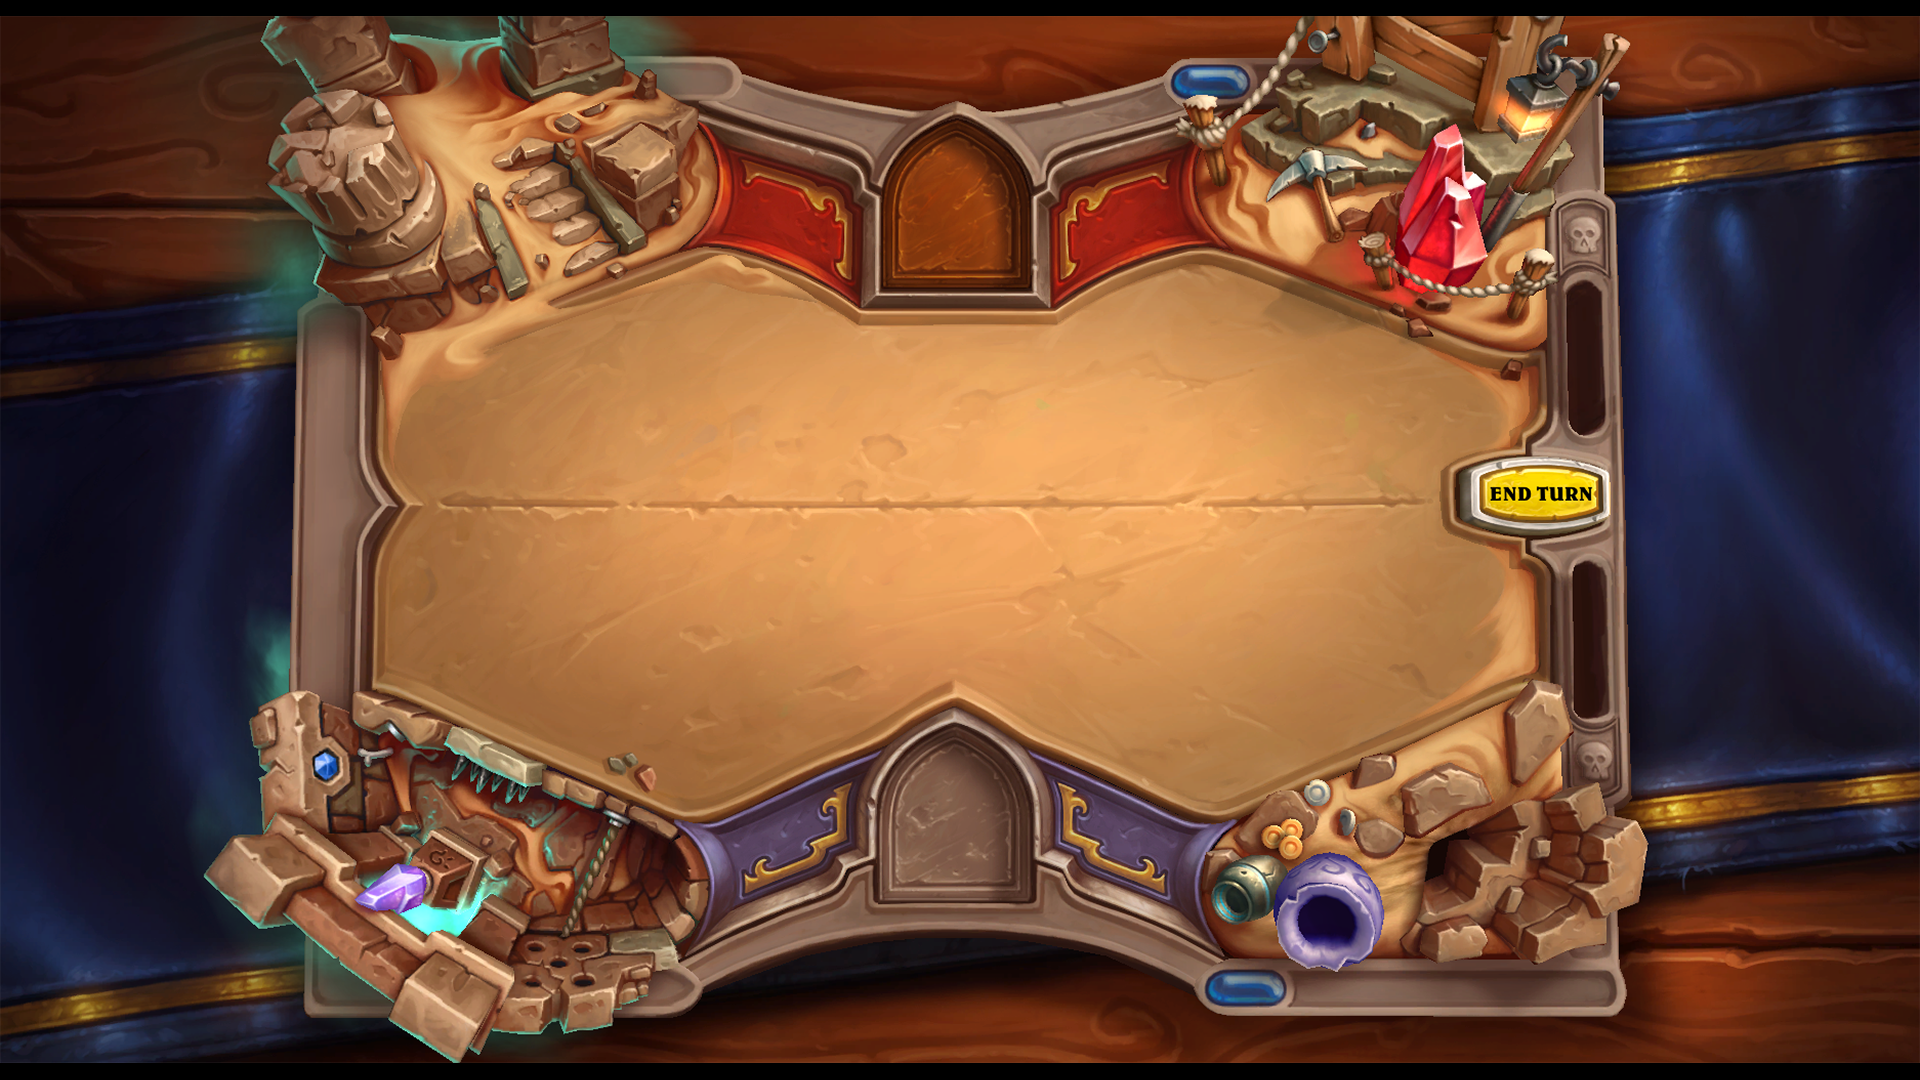
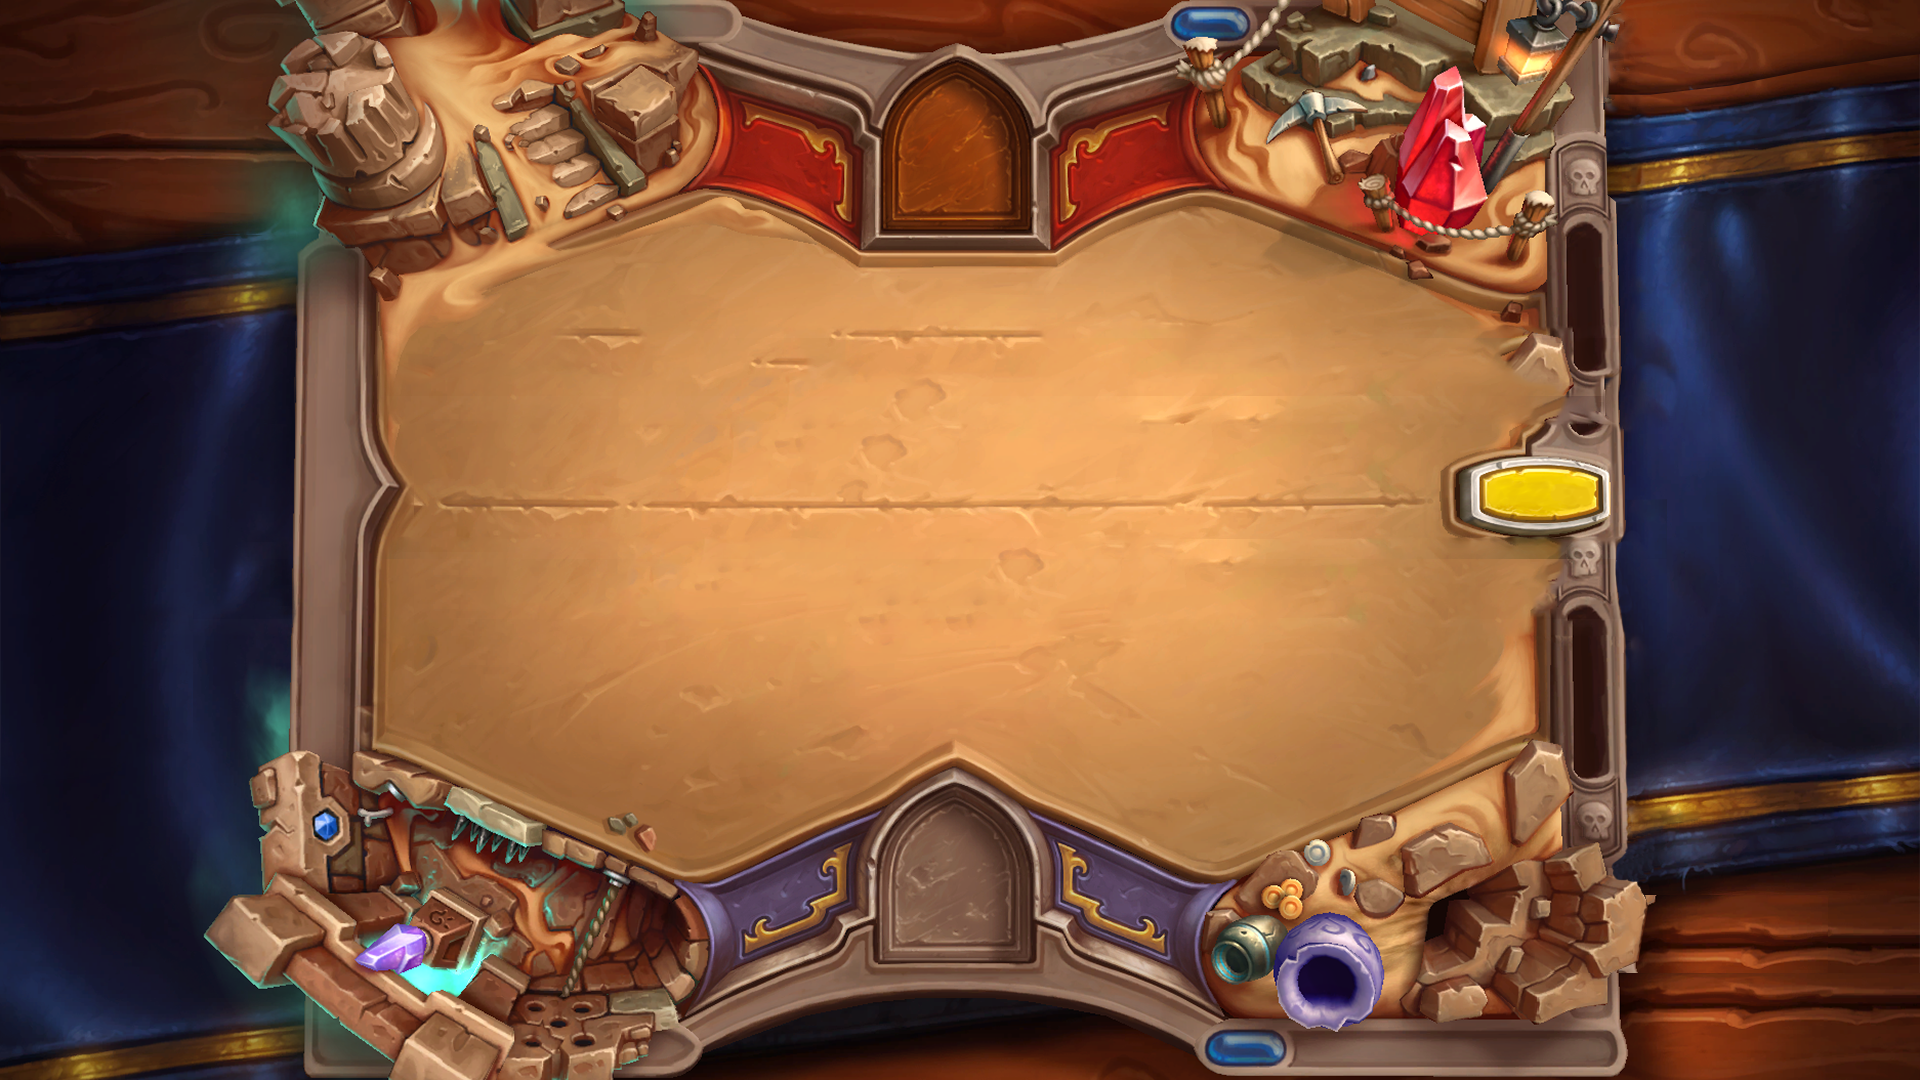
Añadida animación del background y pequeños errores

diff --git a/prueba.html b/prueba.html
@@ -1,0 +1,170 @@
+<!DOCTYPE html>
+<html>
+<head>
+<script>
+
+// stores the device context of the canvas we use to draw the outlines
+// initialized in myInit, used in myHover and myLeave
+var hdc;
+
+// shorthand func
+function byId(e){return document.getElementById(e);}
+
+// takes a string that contains coords eg - "227,307,261,309, 339,354, 328,371, 240,331"
+// draws a line from each co-ord pair to the next - assumes starting point needs to be repeated as ending point.
+function drawPoly(coOrdStr)
+{
+    var mCoords = coOrdStr.split(',');
+    var i, n;
+    n = mCoords.length;
+
+    hdc.beginPath();
+    hdc.moveTo(mCoords[0], mCoords[1]);
+    for (i=2; i<n; i+=2)
+    {
+        hdc.lineTo(mCoords[i], mCoords[i+1]);
+    }
+    hdc.lineTo(mCoords[0], mCoords[1]);
+    hdc.stroke();
+}
+
+function drawRect(coOrdStr)
+{
+    var mCoords = coOrdStr.split(',');
+    var top, left, bot, right;
+    left = mCoords[0];
+    top = mCoords[1];
+    right = mCoords[2];
+    bot = mCoords[3];
+    hdc.strokeRect(left,top,right-left,bot-top);
+}
+
+function myHover(element)
+{
+    var hoveredElement = element;
+    var coordStr = element.getAttribute('coords');
+    var areaType = element.getAttribute('shape');
+
+    switch (areaType)
+    {
+        case 'polygon':
+        case 'poly':
+            drawPoly(coordStr);
+            break;
+
+        case 'rect':
+            drawRect(coordStr);
+    }
+}
+
+function myLeave()
+{
+    var canvas = byId('myCanvas');
+    hdc.clearRect(0, 0, canvas.width, canvas.height);
+}
+
+function myInit()
+{
+    // get the target image
+    var img = byId('img-imgmap201293016112');
+
+    var x,y, w,h;
+
+    // get it's position and width+height
+    x = img.offsetLeft;
+    y = img.offsetTop;
+    w = img.clientWidth;
+    h = img.clientHeight;
+
+    // move the canvas, so it's contained by the same parent as the image
+    var imgParent = img.parentNode;
+    var can = byId('myCanvas');
+    imgParent.appendChild(can);
+
+    // place the canvas in front of the image
+    can.style.zIndex = 1;
+
+    // position it over the image
+    can.style.left = x+'px';
+    can.style.top = y+'px';
+
+    // make same size as the image
+    can.setAttribute('width', w+'px');
+    can.setAttribute('height', h+'px');
+
+    // get it's context
+    hdc = can.getContext('2d');
+
+    // set the 'default' values for the colour/width of fill/stroke operations
+    hdc.fillStyle = 'red';
+    hdc.strokeStyle = 'red';
+    hdc.lineWidth = 2;
+}
+</script>
+
+<style>
+body
+{
+    background-color: gray;
+}
+canvas
+{
+    pointer-events: none;       /* make the canvas transparent to the mouse - needed since canvas is position infront of image */
+    position: absolute;
+}
+</style>
+
+<title></title>
+</head>
+<body onload='myInit()'>
+    <canvas id='myCanvas'></canvas>     <!-- gets re-positioned in myInit(); -->
+<center>
+<img src='media/board.png' usemap='#imgmap_css_container_imgmap201293016112' class='imgmap_css_container' title='imgmap201293016112' alt='imgmap201293016112' id='img-imgmap201293016112' />
+<map id='imgmap201293016112' name='imgmap_css_container_imgmap201293016112'>
+    <area shape="poly" onmouseover='myHover(this);' onmouseout='myLeave();' coords="2,0,604,-3,611,-3,611,166,346,165,345,130,-2,130,-2,124,1,128,1,126" href="" alt="imgmap201293016112-0" title="imgmap201293016112-0" class="imgmap201293016112-area" id="imgmap201293016112-area-0" />
+    <area shape="rect" onmouseover='myHover(this);' onmouseout='myLeave();' coords="1,131,341,213" href="" alt="imgmap201293016112-1" title="imgmap201293016112-1" class="imgmap201293016112-area" id="imgmap201293016112-area-1" />
+    <area shape="rect" onmouseover='myHover(this);' onmouseout='myLeave();' coords="346,166,614,241" href="" alt="imgmap201293016112-2" title="imgmap201293016112-2" class="imgmap201293016112-area" id="imgmap201293016112-area-2" />
+    <area shape="poly" onmouseover='myHover(this);' onmouseout='myLeave();' coords="917,242,344,239,345,496,574,495,575,435,917,433" href="" alt="imgmap201293016112-3" title="imgmap201293016112-3" class="imgmap201293016112-area" id="imgmap201293016112-area-3" />
+    <area shape="rect" onmouseover='myHover(this);' onmouseout='myLeave();' coords="1,416,341,494" href="" alt="imgmap201293016112-4" title="imgmap201293016112-4" class="imgmap201293016112-area" id="imgmap201293016112-area-4" />
+    <area shape="rect" onmouseover='myHover(this);' onmouseout='myLeave();' coords="1,215,341,410" href="" alt="imgmap201293016112-5" title="imgmap201293016112-5" class="imgmap201293016112-area" id="imgmap201293016112-area-5" />
+    <area shape="poly" onmouseover='myHover(this);' onmouseout='myLeave();' coords="916,533,916,436,578,436,576,495,806,496,807,535" href="" alt="imgmap201293016112-6" title="imgmap201293016112-6" class="imgmap201293016112-area" id="imgmap201293016112-area-6" />
+    <area shape="rect" onmouseover='myHover(this);' onmouseout='myLeave();' coords="805,536,918,614" href="" alt="imgmap201293016112-7" title="imgmap201293016112-7" class="imgmap201293016112-area" id="imgmap201293016112-area-7" />
+    <area shape="rect" onmouseover='myHover(this);' onmouseout='myLeave();' coords="461,494,803,616" href="" alt="imgmap201293016112-8" title="imgmap201293016112-8" class="imgmap201293016112-area" id="imgmap201293016112-area-8" />
+    <area shape="rect" onmouseover='myHover(this);' onmouseout='myLeave();' coords="0,497,223,616" href="" alt="imgmap201293016112-9" title="imgmap201293016112-9" class="imgmap201293016112-area" id="imgmap201293016112-area-9" />
+    <area shape="rect" onmouseover='myHover(this);' onmouseout='myLeave();' coords="230,494,456,614" href="" alt="imgmap201293016112-10" title="imgmap201293016112-10" class="imgmap201293016112-area" id="imgmap201293016112-area-10" />
+    <area shape="rect" onmouseover='myHover(this);' onmouseout='myLeave();' coords="345,935,572,1082" href="" alt="imgmap201293016112-11" title="imgmap201293016112-11" class="imgmap201293016112-area" id="imgmap201293016112-area-11" />
+    <area shape="rect" onmouseover='myHover(this);' onmouseout='myLeave();' coords="1,617,457,760" href="" alt="imgmap201293016112-12" title="imgmap201293016112-12" class="imgmap201293016112-area" id="imgmap201293016112-area-12" />
+    <area shape="rect" onmouseover='myHover(this);' onmouseout='myLeave();' coords="345,760,577,847" href="" alt="imgmap201293016112-13" title="imgmap201293016112-13" class="imgmap201293016112-area" id="imgmap201293016112-area-13" />
+    <area shape="rect" onmouseover='myHover(this);' onmouseout='myLeave();' coords="0,759,344,906" href="" alt="imgmap201293016112-14" title="imgmap201293016112-14" class="imgmap201293016112-area" id="imgmap201293016112-area-14" />
+    <area shape="rect" onmouseover='myHover(this);' onmouseout='myLeave();' coords="346,850,571,935" href="" alt="imgmap201293016112-15" title="imgmap201293016112-15" class="imgmap201293016112-area" id="imgmap201293016112-area-15" />
+    <area shape="rect" onmouseover='myHover(this);' onmouseout='myLeave();' coords="578,761,915,865" href="" alt="imgmap201293016112-16" title="imgmap201293016112-16" class="imgmap201293016112-area" id="imgmap201293016112-area-16" />
+    <area shape="rect" onmouseover='myHover(this);' onmouseout='myLeave();' coords="0,1017,226,1085" href="" alt="imgmap201293016112-17" title="imgmap201293016112-17" class="imgmap201293016112-area" id="imgmap201293016112-area-17" />
+    <area shape="rect" onmouseover='myHover(this);' onmouseout='myLeave();' coords="0,908,342,1017" href="" alt="imgmap201293016112-18" title="imgmap201293016112-18" class="imgmap201293016112-area" id="imgmap201293016112-area-18" />
+    <area shape="rect" onmouseover='myHover(this);' onmouseout='myLeave();' coords="229,1010,342,1084" href="" alt="imgmap201293016112-19" title="imgmap201293016112-19" class="imgmap201293016112-area" id="imgmap201293016112-area-19" />
+    <area shape="rect" onmouseover='myHover(this);' onmouseout='myLeave();' coords="0,1086,340,1206" href="" alt="imgmap201293016112-20" title="imgmap201293016112-20" class="imgmap201293016112-area" id="imgmap201293016112-area-20" />
+    <area shape="rect" onmouseover='myHover(this);' onmouseout='myLeave();' coords="0,1209,224,1290" href="" alt="imgmap201293016112-21" title="imgmap201293016112-21" class="imgmap201293016112-area" id="imgmap201293016112-area-21" />
+    <area shape="rect" onmouseover='myHover(this);' onmouseout='myLeave();' coords="0,1290,225,1432" href="" alt="imgmap201293016112-22" title="imgmap201293016112-22" class="imgmap201293016112-area" id="imgmap201293016112-area-22" />
+    <area shape="rect" onmouseover='myHover(this);' onmouseout='myLeave();' coords="0,1432,340,1517" href="" alt="imgmap201293016112-23" title="imgmap201293016112-23" class="imgmap201293016112-area" id="imgmap201293016112-area-23" />
+    <area shape="rect" onmouseover='myHover(this);' onmouseout='myLeave();' coords="346,1432,686,1517" href="" alt="imgmap201293016112-24" title="imgmap201293016112-24" class="imgmap201293016112-area" id="imgmap201293016112-area-24" />
+    <area shape="rect" onmouseover='myHover(this);' onmouseout='myLeave();' coords="461,1266,686,1429" href="" alt="imgmap201293016112-25" title="imgmap201293016112-25" class="imgmap201293016112-area" id="imgmap201293016112-area-25" />
+    <area shape="rect" onmouseover='myHover(this);' onmouseout='myLeave();' coords="230,1365,455,1430" href="" alt="imgmap201293016112-26" title="imgmap201293016112-26" class="imgmap201293016112-area" id="imgmap201293016112-area-26" />
+    <area shape="rect" onmouseover='myHover(this);' onmouseout='myLeave();' coords="231,1291,457,1360" href="" alt="imgmap201293016112-27" title="imgmap201293016112-27" class="imgmap201293016112-area" id="imgmap201293016112-area-27" />
+    <area shape="rect" onmouseover='myHover(this);' onmouseout='myLeave();' coords="230,1210,342,1289" href="" alt="imgmap201293016112-28" title="imgmap201293016112-28" class="imgmap201293016112-area" id="imgmap201293016112-area-28" />
+    <area shape="rect" onmouseover='myHover(this);' onmouseout='myLeave();' coords="692,928,916,1016" href="" alt="imgmap201293016112-29" title="imgmap201293016112-29" class="imgmap201293016112-area" id="imgmap201293016112-area-29" />
+    <area shape="rect" onmouseover='myHover(this);' onmouseout='myLeave();' coords="460,616,916,759" href="" alt="imgmap201293016112-30" title="imgmap201293016112-30" class="imgmap201293016112-area" id="imgmap201293016112-area-30" />
+    <area shape="rect" onmouseover='myHover(this);' onmouseout='myLeave();' coords="693,1316,917,1518" href="" alt="imgmap201293016112-31" title="imgmap201293016112-31" class="imgmap201293016112-area" id="imgmap201293016112-area-31" />
+    <area shape="rect" onmouseover='myHover(this);' onmouseout='myLeave();' coords="344,1150,572,1219" href="" alt="imgmap201293016112-32" title="imgmap201293016112-32" class="imgmap201293016112-area" id="imgmap201293016112-area-32" />
+    <area shape="rect" onmouseover='myHover(this);' onmouseout='myLeave();' coords="693,1015,916,1171" href="" alt="imgmap201293016112-33" title="imgmap201293016112-33" class="imgmap201293016112-area" id="imgmap201293016112-area-33" />
+    <area shape="rect" onmouseover='myHover(this);' onmouseout='myLeave();' coords="577,955,686,1032" href="" alt="imgmap201293016112-34" title="imgmap201293016112-34" class="imgmap201293016112-area" id="imgmap201293016112-area-34" />
+    <area shape="rect" onmouseover='myHover(this);' onmouseout='myLeave();' coords="577,1036,687,1101" href="" alt="imgmap201293016112-35" title="imgmap201293016112-35" class="imgmap201293016112-area" id="imgmap201293016112-area-35" />
+    <area shape="rect" onmouseover='myHover(this);' onmouseout='myLeave();' coords="576,1104,689,1172" href="" alt="imgmap201293016112-36" title="imgmap201293016112-36" class="imgmap201293016112-area" id="imgmap201293016112-area-36" />
+    <area shape="rect" onmouseover='myHover(this);' onmouseout='myLeave();' coords="691,1232,918,1313" href="" alt="imgmap201293016112-37" title="imgmap201293016112-37" class="imgmap201293016112-area" id="imgmap201293016112-area-37" />
+    <area shape="rect" onmouseover='myHover(this);' onmouseout='myLeave();' coords="341,1085,573,1151" href="" alt="imgmap201293016112-38" title="imgmap201293016112-38" class="imgmap201293016112-area" id="imgmap201293016112-area-38" />
+    <area shape="poly" onmouseover='myHover(this);' onmouseout='myLeave();' coords="917,868,917,925,688,927,688,955,576,955,574,867,572,864" href="" alt="imgmap201293016112-39" title="imgmap201293016112-39" class="imgmap201293016112-area" id="imgmap201293016112-area-39" />
+    <area shape="poly" onmouseover='myHover(this);' onmouseout='myLeave();' coords="919,1173,917,1231,688,1231,688,1266,574,1267,576,1175,576,1175" href="" alt="imgmap201293016112-40" title="imgmap201293016112-40" class="imgmap201293016112-area" id="imgmap201293016112-area-40" />
+    <area shape="poly" onmouseover='myHover(this);' onmouseout='myLeave();' coords="572,1222,572,1265,459,1265,458,1289,339,1290,344,1225" href="" alt="imgmap201293016112-41" title="imgmap201293016112-41" class="imgmap201293016112-area" id="imgmap201293016112-area-41" />
+</map>
+</center>
+
+</body>
+</html>

diff --git a/css/core.css b/css/core.css
@@ -21,7 +21,7 @@ html, body {
 }
 #container{
 	position:absolute;
-	margin-top:-0.5%;
+	z-index:1;
 	padding:0;
 	margin-top: -3,5%;
 	width: 120em;
@@ -30,12 +30,23 @@ html, body {
 	background-size:cover;
 }
 #nextCard{
-	position:relative;
-	margin-top: 1%;
+	position:absolute;
+	margin-top: 24.7%;
+	margin-left:27.5%;
+	background-color:#edc604;
+	color:#000;
+	border-radius:0.4em;
+	width:7em;
+}
+#nextCard:disabled{
+	color:#969696;
 }
 .pruebaimg{
 	width:10.625em;
 	height:16.875em;
+}
+.cartahs,#nextCard{
+	z-index:2;
 }
 .cartahs,.front,.back{
 	width: 8.750em;
@@ -126,6 +137,31 @@ html, body {
     -webkit-animation: bright 1s infinite;
     -moz-animation: bright 1s infinite;
     animation: bright 1s infinite;
+    -webkit-animation-direction: alternate-reverse;
+    -moz-animation-direction: alternate-reverse;
+    animation-direction: alternate-reverse;
+}
+#container:after {
+	content: '';
+    background-image: url('../media/board2.png');
+    background-repeat: no-repeat;
+    background-size: 100%;
+		position: absolute;
+		z-index:0;
+    /*width: 68px;
+    height: 68px;*/
+		width: 100%;
+    height: 100%;
+    /*box-shadow: 0 0 2px rgb(255, 255, 255) inset, 0 0 5px rgb(255, 235, 0), 0 0 10px rgb(255, 129, 0);*/
+    top: 0;
+    bottom: 0;
+    left: 0;
+    right: 0;
+    margin: auto;
+    opacity: 0;
+    -webkit-animation: bright 2s infinite;
+    -moz-animation: bright 2s infinite;
+    animation: bright 2s infinite;
     -webkit-animation-direction: alternate-reverse;
     -moz-animation-direction: alternate-reverse;
     animation-direction: alternate-reverse;
